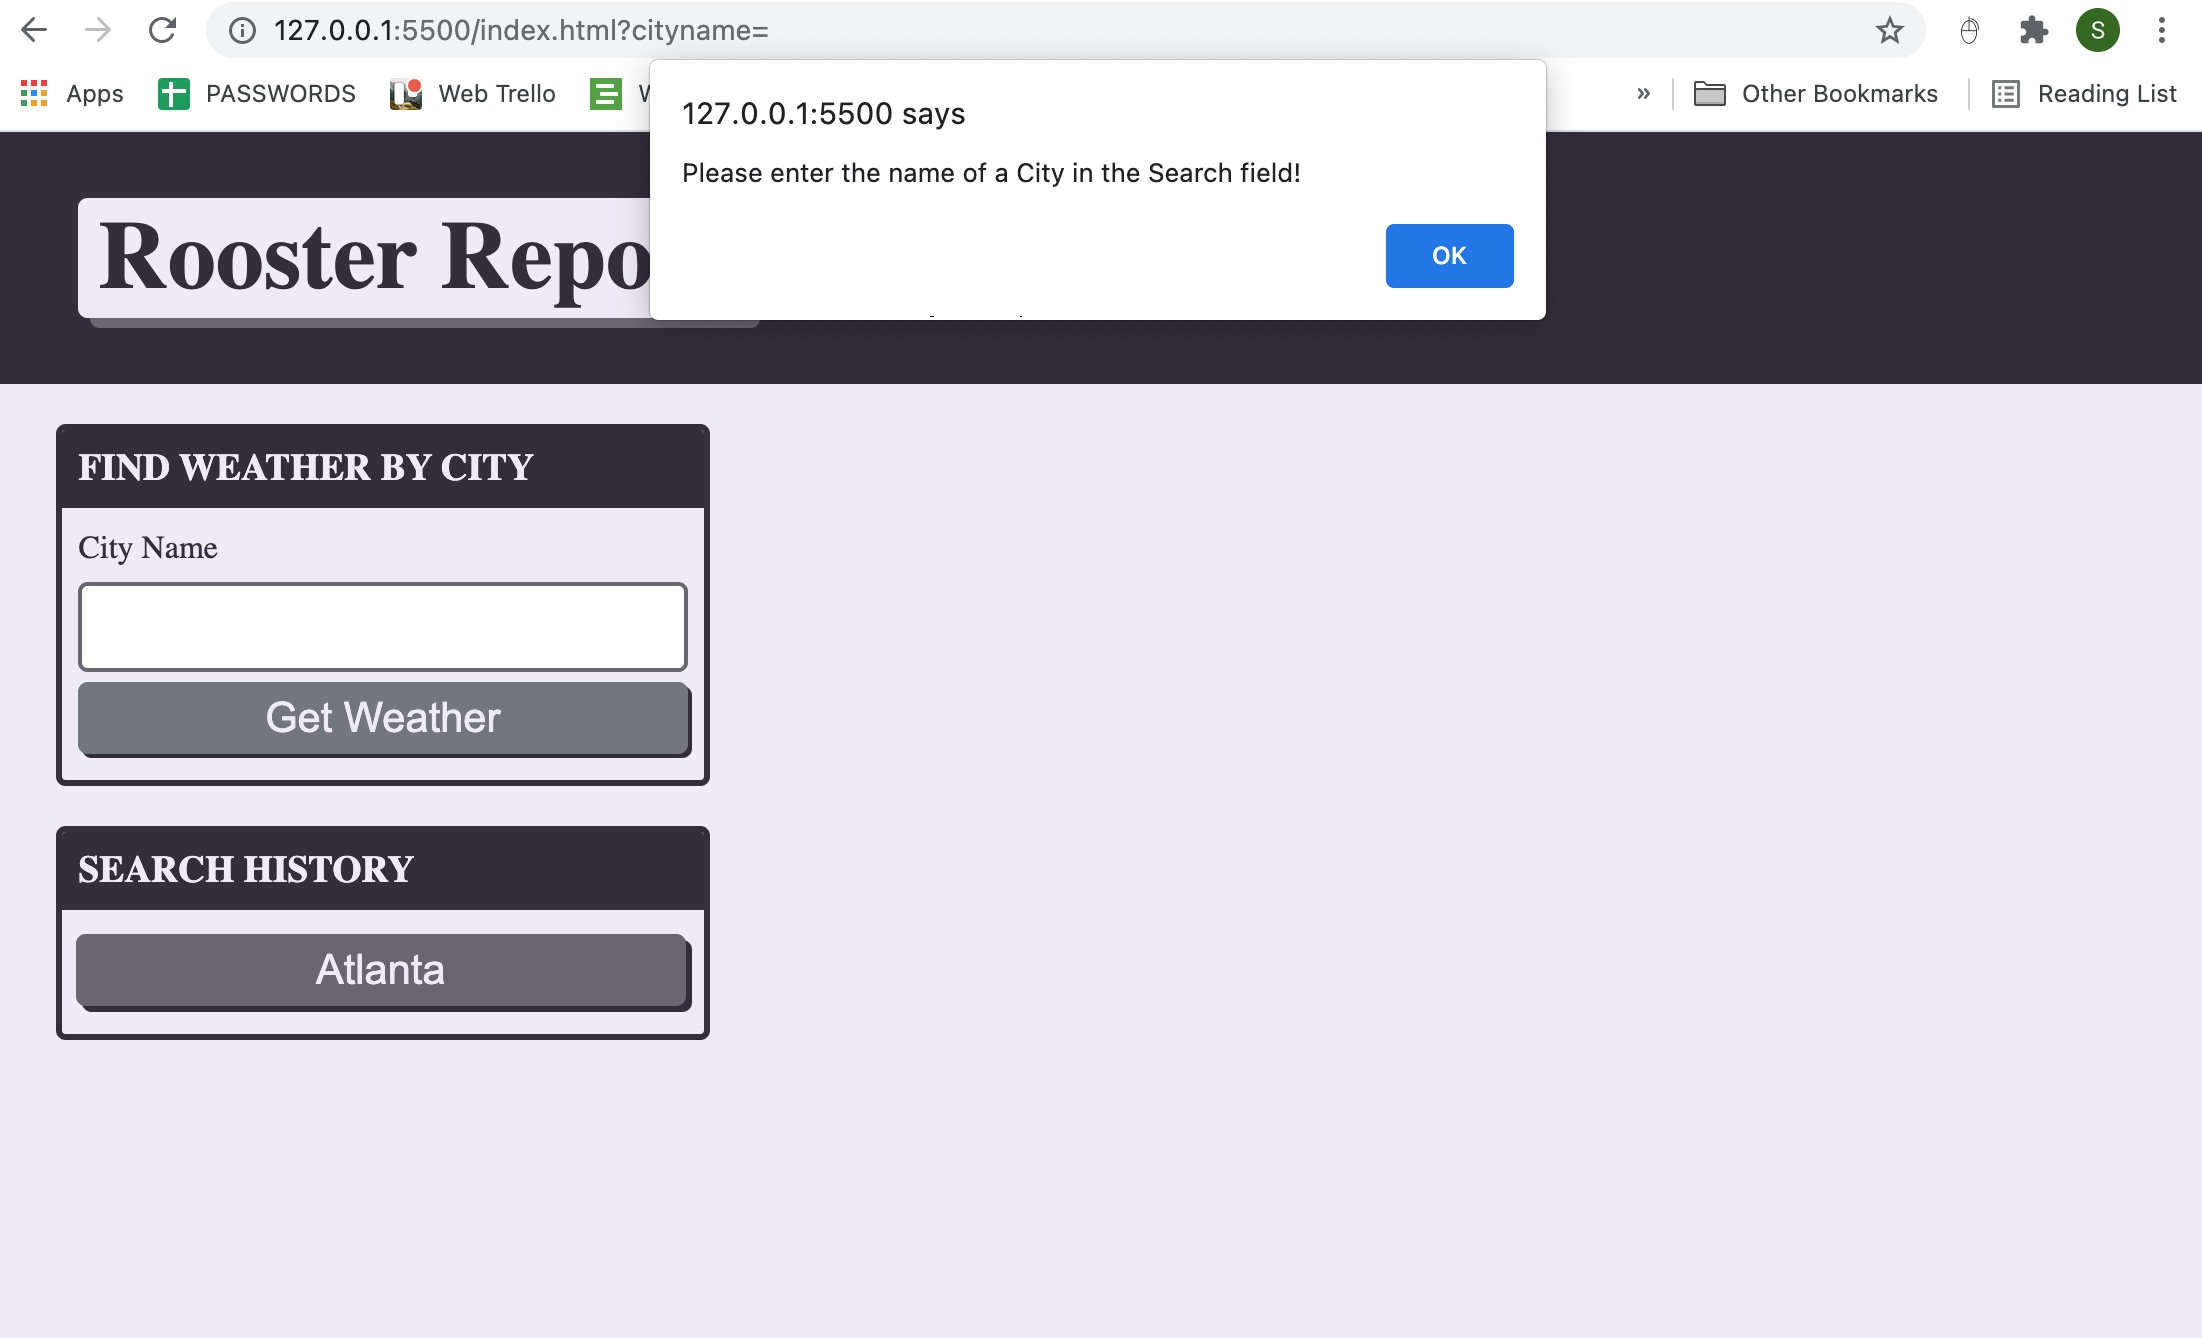
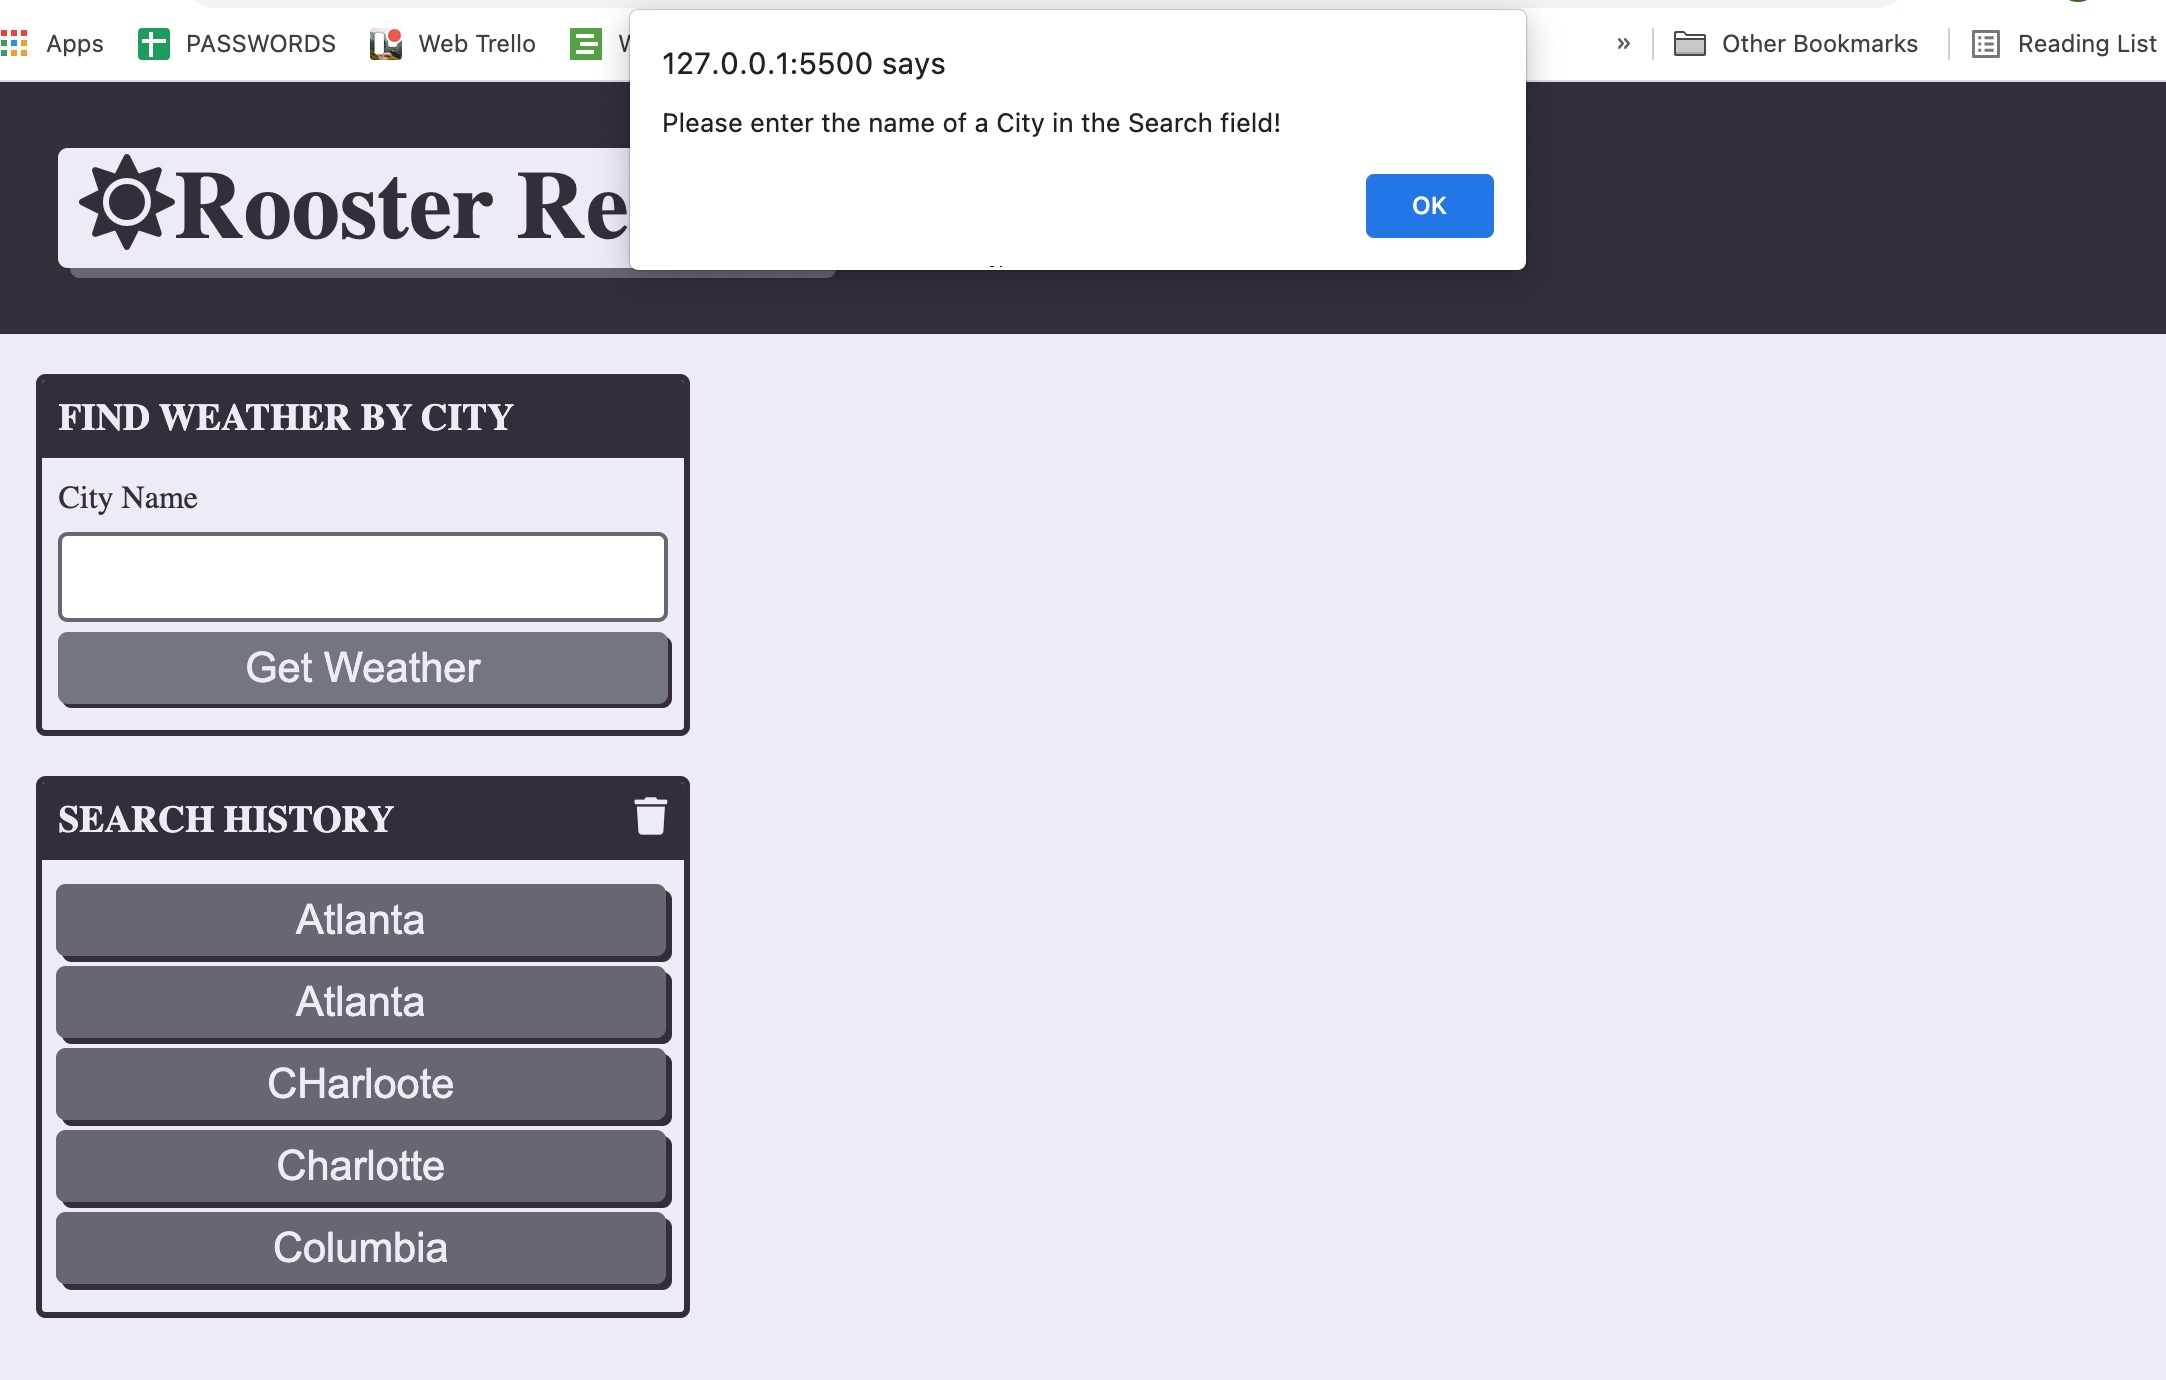
corrected Screenshots

Changed region(s): [[0.0, 0.0, 1.0, 0.9806]]

diff --git a/index.html b/index.html
@@ -5,6 +5,7 @@
     <meta name="viewport" content="width=device-width, initial-scale=1.0" />
     <meta http-equiv="X-UA-Compatible" content="ie=edge" />
     <!-- Add Fun Font link here -->
+    <link rel="stylesheet" href="https://cdnjs.cloudflare.com/ajax/libs/font-awesome/5.11.2/css/all.min.css">
     <link rel="stylesheet" href="./assets/css/style.css" />
     <title>Rooster Report</title>
   </head>

diff --git a/README.md b/README.md
@@ -27,7 +27,7 @@ Visit the github-hosted webpage for the user experience.
 
 ## Instructions
 
-The user enters a city name, which, upon button click "Get Weater", will generate a 5-day forcast for that city. The search history is saved and can be recalled upon a click to that search history term.
+The user enters a city name, which, upon button click "Get Weater", will generate a 5-day forecast for that city. The search history is saved and can be recalled upon a click to that search history term.
 
 In the generated cards, weather information is displayed along with tes UV index, which is colored green, yellow, red, depending on severity.
 
